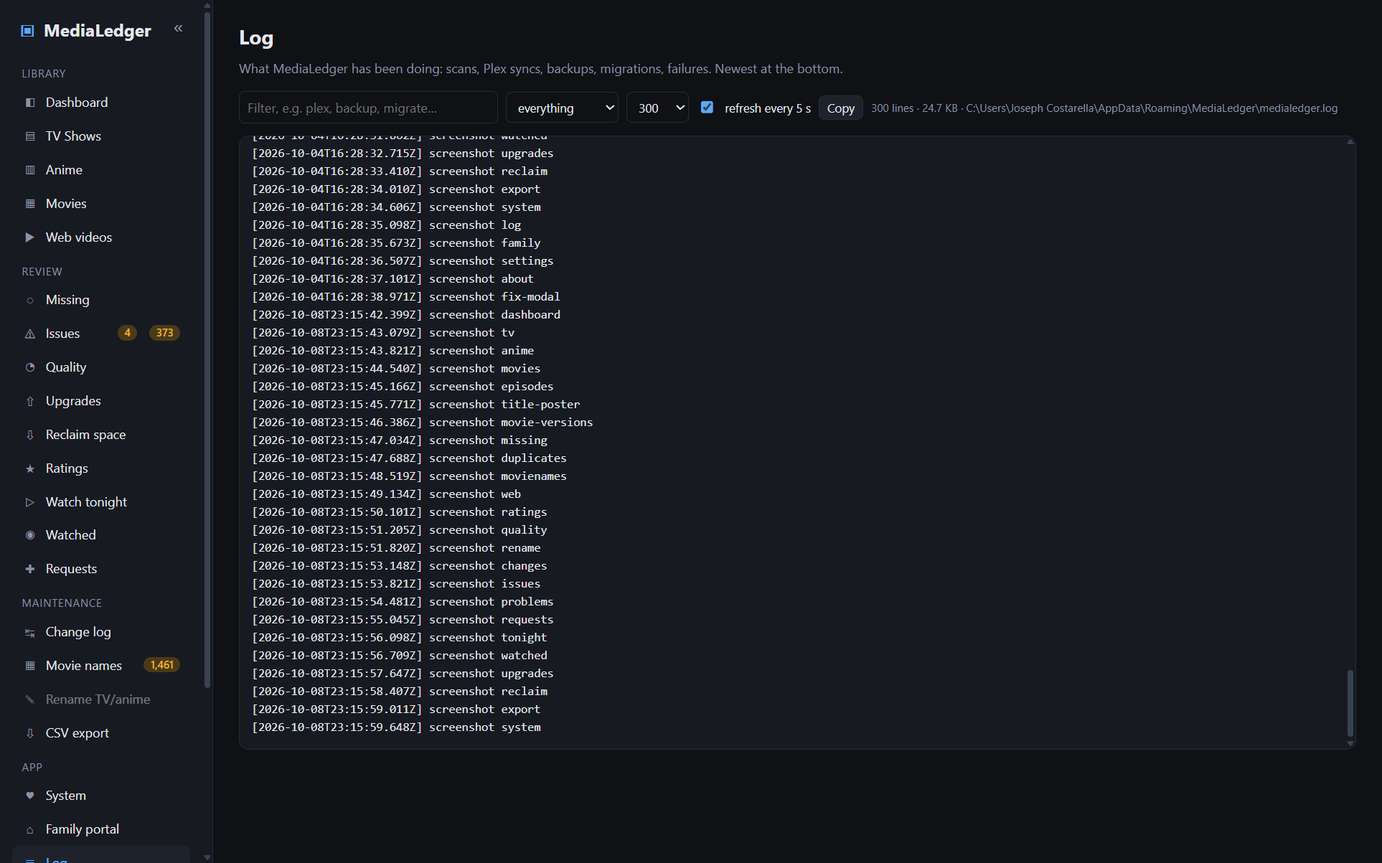
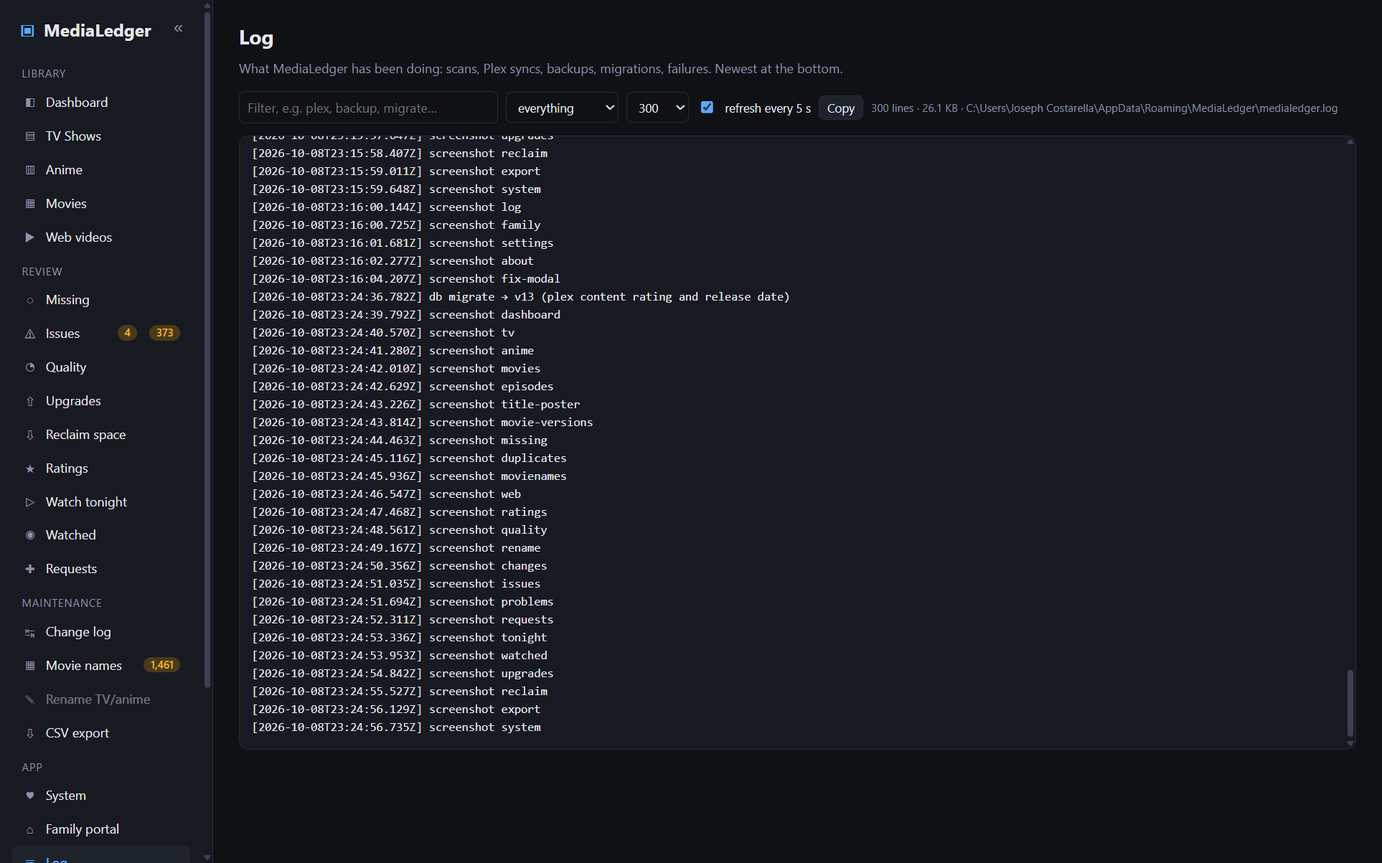
Release 2.6.0: content rating and release date from Plex, a Continue watching card, and a full sort menu on the family portal

Changed region(s): [[0.2492, 0.3998, 0.3115, 0.8304], [0.2181, 0.1538, 0.5607, 0.3691], [0.3427, 0.1538, 0.405, 0.2461]]

diff --git a/src/renderer/views-library.js b/src/renderer/views-library.js
@@ -68,6 +68,7 @@ const DASH_CARDS = [
   { type: 'watched_donut', group: 'Watching', label: 'Watched (chart)', help: 'Watched against not yet, from Plex.', sizes: SZ_CHART, def: 'm', guest: true, render: c => window.Cards.donut([{ k: 'Watched', n: c.d.watched.watched, color: 'var(--accent2)' }, { k: 'Not yet', n: Math.max(0, c.d.watched.linked - c.d.watched.watched), color: 'var(--line)' }], 'Watched (Plex)', { center: c.d.watched.linked ? pct(c.d.watched.watched, c.d.watched.linked) + '%' : '—', sub: c.d.watched.linked ? 'of linked files' : 'sync Plex' }) },
   { type: 'plays', group: 'Watching', label: 'Plays per day', help: 'Plays by everyone on the Plex server.', sizes: SZ_CHART, def: 'm', period: true, render: async c => { if (!canSee('standard')) return null; const days = window.UI.RANGE_DAYS[c.range] || 90; const w = await c.lazy('watched' + days, () => L.watched({ days: days > 3650 ? 'all' : days })); return window.Cards.trend(w.perDay.map(x => ({ x: x.day, y: x.plays })), 'Plays per day', { note: 'Appears once there are plays on two different days.' }); } },
   { type: 'by_person', group: 'Watching', label: 'Plays by person', help: 'Who watched how much, split by library.', sizes: SZ_CHART, def: 'm', period: true, render: async c => { if (!canSee('standard')) return null; const days = window.UI.RANGE_DAYS[c.range] || 90; const w = await c.lazy('watched' + days, () => L.watched({ days: days > 3650 ? 'all' : days })); return bars(w.byPerson, 'Plays by person', { max: 12, drill: false }); } },
+  { type: 'continue', group: 'Watching', label: 'Continue watching', help: 'Titles Plex says are part-way through, newest first.', sizes: SZ_TABLE, def: 'm', list: true, render: async c => { if (!canSee('standard')) return null; const cw = await c.lazy('continue', () => L.continueWatching(20)); const n = rows(c, 8); return `<div class="card"><h3>Continue watching <a class="right" href="#watched">watched →</a></h3>${cw.length ? `<table>${cw.slice(0, n).map(x => `<tr><td><span class="badge ${x.library_type}">${typeName(x.library_type)}</span></td><td class="wrap">${x.library_type === 'movie' ? `<a href="#movies/${encodeURIComponent(x.group_key)}">${esc(x.movie_title || '')}</a>${x.movie_year ? ` <span class="muted">(${x.movie_year})</span>` : ''}` : `<a href="#${x.library_type}/${encodeURIComponent(x.show_name)}">${esc(x.show_name)}</a> <span class="muted tiny">${sxe(x)}${x.episode_title ? ' ' + esc(x.episode_title) : ''}</span>`}</td><td class="num nowrap"><span class="meter-sm" title="${x.progress}% watched"><span style="width:${x.progress}%"></span></span> <span class="muted tiny">${fmtDur(x.left_s)} left</span></td><td class="num muted tiny">${fmtAgo(x.last_viewed)}</td></tr>`).join('')}</table>` : '<p class="muted">Nothing is part-way through. Plex reports progress after the next sync.</p>'}</div>`; } },
   { type: 'nextup', group: 'Watching', label: 'Next up', help: 'The episode after the furthest one each person watched lately.', sizes: SZ_TABLE, def: 'l', list: true, render: async c => { if (!canSee('standard')) return null; const nu = await c.lazy('nextup', () => L.nextUp({ days: 60 })); const n = rows(c, 8); return `<div class="card"><h3>Next up <a class="right" href="#watched">watched →</a></h3>${nu.length ? `<table>${nu.slice(0, n).map(x => `<tr><td class="nowrap"><b>${esc(x.who)}</b></td><td class="wrap"><a href="#${x.library_type}/${encodeURIComponent(x.show)}">${esc(x.show)}</a></td><td class="num nowrap">${x.next ? `S${String(x.next.season).padStart(2, '0')}E${String(x.next.episode).padStart(2, '0')}` : '<span class="badge ok">caught up</span>'}</td><td class="num muted tiny nowrap">${x.left ? x.left + ' left' : ''}</td></tr>`).join('')}</table>` : '<div class="empty">No plays in the last 60 days</div>'}</div>`; } },
   { type: 'anime_audio', group: 'Watching', label: 'Anime sub / dub', help: 'Anime series by how they are voiced.', sizes: SZ_CHART, def: 'm', guest: true, render: c => window.Cards.donut([{ k: 'Subbed', n: c.d.anime_audio.sub, color: 'var(--anime)', href: '#anime?q=sub' }, { k: 'Dubbed', n: c.d.anime_audio.dub, color: 'var(--movie)', href: '#anime?q=dub' }, { k: 'Dual audio', n: c.d.anime_audio.dual, color: 'var(--accent2)', href: '#anime?q=dual' }, { k: 'Mixed', n: c.d.anime_audio.mixed, color: 'var(--warn)', href: '#anime?q=mixed' }, { k: 'Raw', n: c.d.anime_audio.raw, color: 'var(--muted)' }], 'Anime sub / dub', { sub: 'series' }) },
   { type: 'gaps', group: 'Watching', label: 'Most missing episodes', help: 'The series with the most gaps.', sizes: SZ_TABLE, def: 'l', guest: true, list: true, render: c => { const d = c.d, n = rows(c, 8); return `<div class="card"><h3>Most missing episodes <a class="right" href="#missing">all series →</a></h3>${d.missingEpisodes.top.length ? `<table>${d.missingEpisodes.top.slice(0, n).map(g => `<tr><td><span class="badge ${g.library_type}">${typeName(g.library_type)}</span></td><td class="wrap"><a href="#${g.library_type}/${encodeURIComponent(g.show_name)}">${esc(g.show_name)}</a>${g.matched_title && g.matched_title !== g.show_name ? `<span class="sub">${esc(g.matched_title)}</span>` : ''}</td><td class="num">${g.have} of ${g.expected}</td><td class="num bad">${g.missing_count} missing</td><td class="muted tiny wrap">${esc(missingText(g.missing, 6))}</td></tr>`).join('')}</table>` : `<div class="empty">${d.missingEpisodes.matched ? 'Every matched series is complete' : 'No expected counts yet; they are fetched in the background after a scan'}</div>`}</div>`; } },
@@ -126,7 +127,7 @@ async function seriesView(type) {
   ];
   rows.forEach(r => { r.unwatched = r.plex_linked ? r.episodes - r.watched : null; });
   const sorts = [
-    { key: 'show_name', label: 'Title' }, { key: 'year', label: 'Year', desc: true }, { key: 'online_rating', label: 'Online rating', desc: true },
+    { key: 'show_name', label: 'Title' }, { key: 'year', label: 'Year', desc: true }, { key: 'released', label: 'Release date', desc: true }, { key: 'content_rating', label: 'Content rating' }, { key: 'online_rating', label: 'Online rating', desc: true },
     { key: 'audience_rating', label: 'Audience rating (Plex)', desc: true }, { key: 'critic_rating', label: 'Critic rating (Plex)', desc: true }, { key: 'my_rating', label: 'My rating', desc: true },
     { key: 'unwatched', label: 'Unwatched episodes', desc: true }, { key: 'last_added', label: 'Last episode added', desc: true }, { key: 'added', label: 'Date added', desc: true }, { key: 'last_viewed', label: 'Date viewed', desc: true },
     { key: 'plays', label: 'Plays', desc: true }, { key: 'episodes', label: 'Episodes', desc: true }, { key: 'seasons', label: 'Seasons', desc: true }, { key: 'seconds', label: 'Duration', desc: true }, { key: 'bytes', label: 'Size', desc: true },
@@ -134,7 +135,7 @@ async function seriesView(type) {
     { key: 'random', label: 'Randomly', val: r => r._rnd, pick: () => rows.forEach(r => { r._rnd = Math.random(); }) },
   ];
   const sortState = loadSort(type, { key: 'show_name', asc: true }); let sc = null;
-  const hover = (r) => `<b>${esc(r.show_name)}</b><div class="muted tiny">${[r.year, r.meta_status, AUDIO_LABEL[r.audio_type]].filter(Boolean).map(esc).join(' · ')}</div>
+  const hover = (r) => `<b>${esc(r.show_name)}</b><div class="muted tiny">${[r.year, r.meta_status, r.content_rating, AUDIO_LABEL[r.audio_type]].filter(Boolean).map(esc).join(' · ')}</div>
     ${hcRow('On hand', `${r.seasons} season${r.seasons === 1 ? '' : 's'} · ${r.episodes} episodes`)}${hcRow('Runtime', `${fmtHours(r.seconds)} · ${fmtBytes(r.bytes)}`)}${hcRow('Quality', esc((r.resolutions || '').split(',').filter(Boolean).join(', ')))}
     ${hcRow('Missing', r.expected ? (r.missing_count ? `${r.missing_count} of ${r.expected}` : 'complete') : '')}${hcRow('Watched', r.plex_linked ? `${pct(r.watched, r.episodes)}%${r.last_viewed ? ' · last ' + dayOf(r.last_viewed) : ''}` : '')}
     ${hcRow('Rating', [r.online_rating != null ? `${Number(r.online_rating).toFixed(1)} online` : '', r.my_rating ? `${r.my_rating}★ mine` : ''].filter(Boolean).join(' · '))}${hcRow('Next episode', r.next_airing ? dayOf(r.next_airing) : '')}${hcRow('Added', r.added ? `${dayOf(r.added)}${r.last_added && dayOf(r.last_added) !== dayOf(r.added) ? ' · newest ' + dayOf(r.last_added) : ''}` : '')}
@@ -279,13 +280,13 @@ views.movies = async () => {
   rows.forEach(r => { r.watched = r.watched_count > 0 ? 1 : 0; r.unwatched = r.plex_linked ? (r.watched_count > 0 ? 0 : 1) : null; });
   let onlyMulti = false, filtered = rows;
   const sorts = [
-    { key: 'title', label: 'Title' }, { key: 'year', label: 'Year', desc: true }, { key: 'audience_rating', label: 'Audience rating (Plex)', desc: true }, { key: 'my_rating', label: 'My rating', desc: true },
+    { key: 'title', label: 'Title' }, { key: 'year', label: 'Year', desc: true }, { key: 'released', label: 'Release date', desc: true }, { key: 'content_rating', label: 'Content rating' }, { key: 'audience_rating', label: 'Audience rating (Plex)', desc: true }, { key: 'my_rating', label: 'My rating', desc: true },
     { key: 'seconds', label: 'Duration', desc: true }, { key: 'progress', label: 'Progress', desc: true, val: r => r.offset_ms && r.seconds ? r.offset_ms / 1000 / r.seconds : (r.watched_count > 0 ? 1 : null) }, { key: 'watched_count', label: 'Plays', desc: true },
     { key: 'added', label: 'Date added', desc: true }, { key: 'last_viewed', label: 'Date viewed', desc: true }, { key: 'height', label: 'Resolution', desc: true }, { key: 'bitrate', label: 'Bitrate', desc: true }, { key: 'bytes', label: 'Size', desc: true }, { key: 'files', label: 'Versions', desc: true },
     { key: 'random', label: 'Randomly', val: r => r._rnd, pick: () => rows.forEach(r => { r._rnd = Math.random(); }) },
   ];
   const sortState = loadSort('movie', { key: 'title', asc: true }); let sc = null;
-  const hover = (r) => `<b>${esc(r.title)}${r.year ? ` <span class="muted">(${r.year})</span>` : ''}</b><div class="muted tiny">${[fmtDur(r.seconds), AUDIO_LABEL[r.audio_type]].filter(Boolean).map(esc).join(' · ')}</div>
+  const hover = (r) => `<b>${esc(r.title)}${r.year ? ` <span class="muted">(${r.year})</span>` : ''}</b><div class="muted tiny">${[fmtDur(r.seconds), r.content_rating, r.released ? 'released ' + dayOf(r.released) : '', AUDIO_LABEL[r.audio_type]].filter(Boolean).map(esc).join(' · ')}</div>
     ${hcRow('Versions', `${r.files} file${r.files === 1 ? '' : 's'} · ${fmtBytes(r.bytes)}`)}${hcRow('Quality', esc([(r.resolutions || '').split(',').filter(Boolean).join(', '), r.hdr && r.hdr !== 'SDR' ? r.hdr : '', r.bitrate ? (r.bitrate / 1000).toFixed(1) + ' Mbps' : ''].filter(Boolean).join(' · ')))}${hcRow('Editions', esc(r.editions || ''))}
     ${hcRow('Watched', r.plex_linked ? (r.watched_count > 0 ? `${r.watched_count} play${r.watched_count === 1 ? '' : 's'}${r.last_viewed ? ' · last ' + dayOf(r.last_viewed) : ''}` : 'not yet') : '')}${hcRow('Rating', [r.audience_rating != null ? `${Number(r.audience_rating).toFixed(1)} audience` : '', r.my_rating ? `${r.my_rating}★ mine` : ''].filter(Boolean).join(' · '))}
     ${hcRow('Audio', esc(uniqList(r.audio_langs)))}${hcRow('Subtitles', esc(uniqList(r.sub_langs)))}${hcRow('Added', dayOf(r.added))}

diff --git a/src/portal/portal.js b/src/portal/portal.js
@@ -39,15 +39,18 @@
   async function library() {
     let type = store.get('lib', 'movie');
     view.innerHTML = `<div class="seg" id="libSeg">${['movie', 'tv', 'anime'].map(t => `<button data-t="${t}" class="${t === type ? 'on' : ''}">${t === 'movie' ? 'Movies' : TYPE[t]}</button>`).join('')}</div>
-      <div class="bar"><input type="search" id="q" placeholder="Search…" autocomplete="off"><select id="fGenre"><option value="">any genre</option></select><select id="fBest"><option value="">any quality</option><option>4K</option><option>1080p</option><option>720p</option></select><select id="fAudio" hidden><option value="">sub or dub</option><option value="sub">Sub</option><option value="dub">Dub</option><option value="dual">Sub + Dub</option></select><select id="sort"><option value="title">A to Z</option><option value="rating">best rated</option><option value="year">newest first</option></select></div>
+      <div class="bar"><input type="search" id="q" placeholder="Search…" autocomplete="off"><select id="fGenre"><option value="">any genre</option></select><select id="fBest"><option value="">any quality</option><option>4K</option><option>1080p</option><option>720p</option></select><select id="fAudio" hidden><option value="">sub or dub</option><option value="sub">Sub</option><option value="dub">Dub</option><option value="dual">Sub + Dub</option></select><select id="sort"><option value="title">Title</option><option value="rating">Rating</option><option value="year">Year</option><option value="released">Release date</option><option value="rated">Content rating</option><option value="added">Date added</option><option value="last_added">Last episode added</option><option value="unwatched">Unwatched</option><option value="episodes">Episodes</option><option value="minutes">Length</option></select><button id="sortDir" class="btn" title="Ascending or descending">↓</button></div>
       <div class="muted tiny" id="count"></div><div class="list" id="list"><div class="empty">Loading…</div></div><div class="more" id="more"></div>`;
     let rows = [], shown = 60;
     const draw = () => {
       const q = $('#q').value.trim().toLowerCase(), g = $('#fGenre').value, b = $('#fBest').value, a = $('#fAudio').value, s = $('#sort').value;
       let list = rows.filter(r => (!q || r.title.toLowerCase().includes(q) || (r.tags || []).some(t => t.toLowerCase().includes(q))) && (!g || (r.genres || []).includes(g)) && (!b || r.best === b) && (!a || r.audio_type === a));
-      list = list.slice().sort(s === 'rating' ? (x, y) => (y.online_rating || 0) - (x.online_rating || 0) : s === 'year' ? (x, y) => (y.year || 0) - (x.year || 0) : (x, y) => x.title.localeCompare(y.title));
+      // Every sort has a natural direction (titles up, everything else newest or highest first); the button flips it.
+      const key = { rating: 'online_rating', rated: 'rated', title: 'title' }[s] || s, natural = s === 'title' || s === 'rated' ? 1 : -1, dir = (store.get('sortDir', 1)) * natural;
+      const val = (r) => key === 'online_rating' && r.online_rating == null ? r.audience_rating : r[key];
+      list = list.slice().sort((x, y) => { const a = val(x), b = val(y); if (a == null && b == null) return 0; if (a == null) return 1; if (b == null) return -1; return (typeof a === 'number' ? a - b : String(a).localeCompare(String(b), undefined, { numeric: true })) * dir; });
       $('#count').textContent = `${list.length.toLocaleString()} of ${rows.length.toLocaleString()}`;
-      $('#list').innerHTML = list.slice(0, shown).map(r => `<a class="row has-poster" href="${hrefOf(r)}">${poster(r)}<div class="t">${esc(r.title)}${r.year ? ` <span class="muted">(${r.year})</span>` : ''}</div><div class="s">${r.best ? `<span class="badge">${esc(r.best)}${r.hdr ? ' ' + esc(r.hdr) : ''}</span>` : ''}${audioBadge(r.audio_type)}${r.type === 'movie' ? `<span>${mins(r.minutes)}</span>${r.versions > 1 ? `<span>${r.versions} versions</span>` : ''}` : `<span>${r.episodes} episodes</span>${r.missing ? `<span class="badge warn">${r.missing} missing</span>` : r.expected ? '<span class="badge ok">complete</span>' : ''}`}${rating(r.online_rating)}${stars(r.my_rating)}</div>${tagRow(r)}</a>`).join('') || '<div class="empty">Nothing matches.</div>';
+      $('#list').innerHTML = list.slice(0, shown).map(r => `<a class="row has-poster" href="${hrefOf(r)}">${poster(r)}<div class="t">${esc(r.title)}${r.year ? ` <span class="muted">(${r.year})</span>` : ''}</div><div class="s">${r.best ? `<span class="badge">${esc(r.best)}${r.hdr ? ' ' + esc(r.hdr) : ''}</span>` : ''}${audioBadge(r.audio_type)}${r.type === 'movie' ? `<span>${mins(r.minutes)}</span>${r.versions > 1 ? `<span>${r.versions} versions</span>` : ''}` : `<span>${r.episodes} episodes</span>${r.missing ? `<span class="badge warn">${r.missing} missing</span>` : r.expected ? '<span class="badge ok">complete</span>' : ''}`}${r.rated ? `<span class="badge" title="content rating">${esc(r.rated)}</span>` : ''}${rating(r.online_rating != null ? r.online_rating : r.audience_rating)}${stars(r.my_rating)}</div>${tagRow(r)}</a>`).join('') || '<div class="empty">Nothing matches.</div>';
       $('#more').innerHTML = list.length > shown ? `<button class="btn" id="moreBtn">Show more (${(list.length - shown).toLocaleString()} left)</button>` : '';
       if ($('#moreBtn')) $('#moreBtn').onclick = () => { shown += 120; draw(); };
     };
@@ -56,12 +59,15 @@
       try { await loadPosters(); rows = await cached('library?type=' + type); } catch (e) { if (e.message !== 'invite') $('#list').innerHTML = `<div class="empty">${esc(e.message)}</div>`; return; }
       const genres = [...new Set(rows.flatMap(r => r.genres || []))].sort();
       $('#fGenre').innerHTML = '<option value="">any genre</option>' + genres.map(g => `<option>${esc(g)}</option>`).join('');
-      $('#sort').querySelector('[value=year]').hidden = type !== 'movie';
+      for (const [v, when] of [['year', 'movie'], ['released', ''], ['last_added', 'series'], ['unwatched', 'series'], ['episodes', 'series'], ['minutes', 'movie']]) $('#sort').querySelector(`[value=${v}]`).hidden = when === 'movie' ? type !== 'movie' : when === 'series' ? type === 'movie' : false;
+      $('#sort').value = store.get('sort.' + type, 'title'); paintDir();
       shown = 60; draw();
     };
     $('#libSeg').onclick = (e) => { const b = e.target.closest('button'); if (!b) return; type = b.dataset.t; store.set('lib', type); [...$('#libSeg').children].forEach(x => x.classList.toggle('on', x === b)); $('#q').value = ''; load(); };
     let deb = null; $('#q').oninput = () => { clearTimeout(deb); deb = setTimeout(() => { shown = 60; draw(); }, 150); };
-    ['#fGenre', '#fBest', '#fAudio', '#sort'].forEach(id => { $(id).onchange = () => { shown = 60; draw(); }; });
+    const paintDir = () => { $('#sortDir').textContent = store.get('sortDir', 1) === 1 ? '↓' : '↑'; };
+    ['#fGenre', '#fBest', '#fAudio', '#sort'].forEach(id => { $(id).onchange = () => { shown = 60; if (id === '#sort') store.set('sort.' + type, $('#sort').value); draw(); }; });
+    $('#sortDir').onclick = () => { store.set('sortDir', store.get('sortDir', 1) === 1 ? -1 : 1); paintDir(); draw(); };
     await load();
   }
 

diff --git a/src/main/service.js b/src/main/service.js
@@ -547,19 +547,19 @@ function createService({ userData, log, send, host }) {
       MIN(${FILE_ADDED}) added, MAX(${FILE_ADDED}) last_added, MAX(plex_last_viewed) last_viewed, MAX(height) height, CAST(AVG(bitrate_kbps) AS INTEGER) bitrate, SUM(COALESCE(plex_view_count,0)) plays,
       ${AUDIO_COUNTS}
     FROM files WHERE library_type=? AND missing=0 AND ignored=0${AF()} GROUP BY show_name ORDER BY show_name COLLATE NOCASE`, type);
-    const plexShows = new Map(db.all('SELECT rating_key, user_rating, genres, year, audience_rating, rating FROM plex_shows').map(s => [s.rating_key, s]));
+    const plexShows = new Map(db.all('SELECT rating_key, user_rating, genres, year, audience_rating, rating, content_rating, released FROM plex_shows').map(s => [s.rating_key, s]));
     const tagMap = db.tagsFor(type);
     const miss = new Map(missingSummary(type).map(m => [m.show_name, m]));
     const metas = db.allSeriesMeta(type);
     const ur = new Map(db.userRatings(type).map(u => [u.title_key, u]));
-    return rows.map(r => { const m = miss.get(r.show_name); const sm = metas.get(r.show_name); const u = ur.get(r.show_name); const ps = r.plex_show_key ? plexShows.get(r.plex_show_key) : null; return { ...r, expected: m ? m.expected : 0, missing_count: m ? m.missing_count : 0, meta_source: m ? m.source : null, meta_status: m ? m.status : null, online_rating: sm ? sm.rating : null, my_rating: u ? u.stars : null, plex_user: ps ? ps.user_rating : null, year: ps ? ps.year : null, audience_rating: ps ? ps.audience_rating : null, critic_rating: ps ? ps.rating : null, next_airing: sm ? sm.next_airing || null : null, genres: onlineTags(sm).length ? onlineTags(sm) : onlineTags({ genres: ps && ps.genres }), audio_type: titleAudioType({ files: r.probed_audio, jpn: r.jpn_files, eng: r.eng_files, dual: r.dual_files }, { anime: type === 'anime' }), tags: tagMap.get(r.show_name) || [] }; });
+    return rows.map(r => { const m = miss.get(r.show_name); const sm = metas.get(r.show_name); const u = ur.get(r.show_name); const ps = r.plex_show_key ? plexShows.get(r.plex_show_key) : null; return { ...r, expected: m ? m.expected : 0, missing_count: m ? m.missing_count : 0, meta_source: m ? m.source : null, meta_status: m ? m.status : null, online_rating: sm ? sm.rating : null, my_rating: u ? u.stars : null, plex_user: ps ? ps.user_rating : null, year: ps ? ps.year : null, audience_rating: ps ? ps.audience_rating : null, critic_rating: ps ? ps.rating : null, content_rating: ps ? ps.content_rating || null : null, released: ps ? ps.released || null : null, next_airing: sm ? sm.next_airing || null : null, genres: onlineTags(sm).length ? onlineTags(sm) : onlineTags({ genres: ps && ps.genres }), audio_type: titleAudioType({ files: r.probed_audio, jpn: r.jpn_files, eng: r.eng_files, dual: r.dual_files }, { anime: type === 'anime' }), tags: tagMap.get(r.show_name) || [] }; });
   });
   h('data:episodes', (type, show) => ({ tags: db.tagsOf(type, show), genres: onlineTags(db.getSeriesMeta(type, show)), files: db.all(`SELECT * FROM files WHERE library_type=? AND show_name=? AND ignored=0${AF()} ORDER BY missing, season, episode, file_name`, type, show), missing: missingSummary(type).find(m => m.show_name === show) || null }));
   h('data:movies', () => { const movieTags = db.tagsFor('movie'); const mine = new Map(db.userRatings('movie').map(u => [u.title_key, u.stars])); return db.all(`SELECT group_key, MIN(movie_title) title, MIN(movie_year) year, COUNT(*) files, SUM(size) bytes, MAX(duration_s) seconds,
       GROUP_CONCAT(DISTINCT resolution) resolutions, GROUP_CONCAT(DISTINCT video_codec) codecs, GROUP_CONCAT(DISTINCT audio_langs) audio_langs, GROUP_CONCAT(DISTINCT sub_langs) sub_langs,
       MAX(has_captions) has_captions, SUM(CASE WHEN probe_ok=1 THEN 1 ELSE 0 END) probed, GROUP_CONCAT(edition_tag, ' | ') editions, MAX(plex_genres) plex_genres,
       MAX(plex_view_count) watched_count, MAX(plex_user_rating) plex_user, SUM(CASE WHEN plex_rating_key IS NOT NULL THEN 1 ELSE 0 END) plex_linked, MAX(hdr) hdr,
-      MIN(${FILE_ADDED}) added, MAX(plex_last_viewed) last_viewed, MAX(height) height, MAX(bitrate_kbps) bitrate, MAX(plex_audience_rating) audience_rating, MAX(plex_view_offset_ms) offset_ms,
+      MIN(${FILE_ADDED}) added, MAX(plex_last_viewed) last_viewed, MAX(height) height, MAX(bitrate_kbps) bitrate, MAX(plex_audience_rating) audience_rating, MAX(plex_view_offset_ms) offset_ms, MAX(plex_content_rating) content_rating, MIN(plex_released) released,
       ${AUDIO_COUNTS}
     FROM files WHERE library_type='movie' AND missing=0 AND ignored=0${AF()} GROUP BY group_key ORDER BY title COLLATE NOCASE, year`).map(r => ({ ...r, my_rating: mine.get(r.group_key) || null, genres: onlineTags({ genres: r.plex_genres }), audio_type: titleAudioType({ files: r.probed_audio, jpn: r.jpn_files, eng: r.eng_files, dual: r.dual_files }), tags: movieTags.get(r.group_key) || [] })); });
   h('data:movieFiles', (groupKey) => db.all(`SELECT * FROM files WHERE library_type='movie' AND group_key=?${AF()} ORDER BY missing, file_name`, groupKey));
@@ -711,6 +711,11 @@ function createService({ userData, log, send, host }) {
   h('data:snapshots', (days) => db.snapshots(Number(days) || 365));
   h('data:watched', (opts) => watched.report(db, { ...(opts || {}), adultFilter: AF() }));
   h('data:reclaim', (opts) => watched.reclaim(db, { ...(opts || {}), adultFilter: AF() }));
+  // Continue watching: what Plex says is part-way through. Plex clears the offset once something is finished.
+  h('data:continue', (limit) => db.all(`SELECT library_type, show_name, season, episode, episode_title, movie_title, movie_year, group_key, duration_s, plex_view_offset_ms offset_ms, plex_last_viewed last_viewed
+    FROM files WHERE missing=0 AND ignored=0 AND plex_view_offset_ms > 60000 AND duration_s > 0${AF()} ORDER BY plex_last_viewed DESC LIMIT ?`, Math.min(50, Math.max(1, Number(limit) || 12)))
+    .filter((r, i, all) => all.findIndex(x => x.library_type === r.library_type && (r.library_type === 'movie' ? x.group_key === r.group_key : x.show_name === r.show_name && x.season === r.season && x.episode === r.episode)) === i) // one row per title, the newest
+    .map(r => ({ ...r, progress: Math.min(99, Math.round(r.offset_ms / 1000 / r.duration_s * 100)), left_s: Math.max(0, Math.round(r.duration_s - r.offset_ms / 1000)) })));
   h('data:nextUp', (opts) => watched.nextUp(db, { ...(opts || {}), adultFilter: AF() }));
   h('data:snapshotNow', () => takeSnapshot());
   const snapshotTick = () => { const today = new Date().toISOString().slice(0, 10); const now = new Date(); const [sh, sm] = String((settings.get().snapshot || {}).time || '03:05').split(':').map(Number); if (now.getHours() * 60 + now.getMinutes() < sh * 60 + sm) return; if (scanner.running) return; if (db.get('SELECT 1 FROM snapshots WHERE day=?', today)) return; try { takeSnapshot(); } catch (e) { log('snapshot failed: ' + e.message); } };

diff --git a/src/main/plex.js b/src/main/plex.js
@@ -106,7 +106,7 @@ async function fetchSection(cfg, section, onProgress = () => {}) {
     out.videos = (mc.Metadata || []).map(v => flattenVideo(v, section));
   } else if (section.type === 'show') {
     const shows = await api(cfg, `/library/sections/${section.key}/all?includeGuids=1`, 120000);
-    out.shows = (shows.Metadata || []).map(s => ({ ratingKey: String(s.ratingKey), title: s.title, year: pick(s, 'year'), guids: ids(s.Guid), userRating: pick(s, 'userRating'), audienceRating: pick(s, 'audienceRating'), rating: pick(s, 'rating'), leafCount: pick(s, 'leafCount'), viewedLeafCount: pick(s, 'viewedLeafCount'), childCount: pick(s, 'childCount'), contentRating: s.contentRating || null, section: section.title, genres: Array.isArray(s.Genre) ? s.Genre.map(g => g.tag).filter(Boolean) : [] }));
+    out.shows = (shows.Metadata || []).map(s => ({ ratingKey: String(s.ratingKey), title: s.title, year: pick(s, 'year'), guids: ids(s.Guid), userRating: pick(s, 'userRating'), audienceRating: pick(s, 'audienceRating'), rating: pick(s, 'rating'), leafCount: pick(s, 'leafCount'), viewedLeafCount: pick(s, 'viewedLeafCount'), childCount: pick(s, 'childCount'), contentRating: s.contentRating || null, originallyAvailableAt: s.originallyAvailableAt || null, section: section.title, genres: Array.isArray(s.Genre) ? s.Genre.map(g => g.tag).filter(Boolean) : [] }));
     // Episodes in pages of 500 so a 12k-episode section doesn't need one giant response.
     let start = 0; const size = 500;
     for (;;) {
@@ -157,13 +157,13 @@ async function syncLibrary(db, cfg, opts = {}) {
 
     onProgress({ phase: 'store', section: sec.title, message: `Storing ${matched.length.toLocaleString()} matches for ${sec.title}…` });
     db.transaction(() => {
-      const upd = db.prep(`UPDATE files SET plex_rating_key=?, plex_title=?, plex_year=?, plex_show_key=?, plex_guids=?, plex_user_rating=?, plex_audience_rating=?, plex_view_count=?, plex_last_viewed=?, plex_view_offset_ms=?, plex_section=?, plex_synced_at=?, plex_genres=? WHERE id=?`);
+      const upd = db.prep(`UPDATE files SET plex_rating_key=?, plex_title=?, plex_year=?, plex_show_key=?, plex_guids=?, plex_user_rating=?, plex_audience_rating=?, plex_view_count=?, plex_last_viewed=?, plex_view_offset_ms=?, plex_section=?, plex_synced_at=?, plex_genres=?, plex_content_rating=?, plex_released=? WHERE id=?`);
       for (const { item: it, file: f } of matched) {
-        upd.run(it.ratingKey, it.showTitle || it.title, it.year, it.showKey, JSON.stringify(it.guids), it.userRating, it.audienceRating, it.viewCount, it.lastViewedAt ? new Date(it.lastViewedAt * 1000).toISOString() : null, it.viewOffset, it.section, now, it.type === 'movie' && it.genres && it.genres.length ? JSON.stringify(it.genres) : null, f.id);
+        upd.run(it.ratingKey, it.showTitle || it.title, it.year, it.showKey, JSON.stringify(it.guids), it.userRating, it.audienceRating, it.viewCount, it.lastViewedAt ? new Date(it.lastViewedAt * 1000).toISOString() : null, it.viewOffset, it.section, now, it.type === 'movie' && it.genres && it.genres.length ? JSON.stringify(it.genres) : null, it.type === 'movie' ? it.contentRating : null, it.type === 'movie' ? it.originallyAvailableAt : null, f.id);
       }
-      const ups = db.prep(`INSERT INTO plex_shows (rating_key, section, title, year, guids, user_rating, audience_rating, rating, leaf_count, viewed_leaf_count, content_rating, synced_at, genres) VALUES (?,?,?,?,?,?,?,?,?,?,?,?,?)
-        ON CONFLICT(rating_key) DO UPDATE SET section=excluded.section, title=excluded.title, year=excluded.year, guids=excluded.guids, user_rating=excluded.user_rating, audience_rating=excluded.audience_rating, rating=excluded.rating, leaf_count=excluded.leaf_count, viewed_leaf_count=excluded.viewed_leaf_count, content_rating=excluded.content_rating, synced_at=excluded.synced_at, genres=excluded.genres`);
-      for (const s of shows) ups.run(s.ratingKey, s.section, s.title, s.year, JSON.stringify(s.guids), s.userRating, s.audienceRating, s.rating, s.leafCount, s.viewedLeafCount, s.contentRating, now, s.genres && s.genres.length ? JSON.stringify(s.genres) : null);
+      const ups = db.prep(`INSERT INTO plex_shows (rating_key, section, title, year, guids, user_rating, audience_rating, rating, leaf_count, viewed_leaf_count, content_rating, synced_at, genres, released) VALUES (?,?,?,?,?,?,?,?,?,?,?,?,?,?)
+        ON CONFLICT(rating_key) DO UPDATE SET section=excluded.section, title=excluded.title, year=excluded.year, guids=excluded.guids, user_rating=excluded.user_rating, audience_rating=excluded.audience_rating, rating=excluded.rating, leaf_count=excluded.leaf_count, viewed_leaf_count=excluded.viewed_leaf_count, content_rating=excluded.content_rating, synced_at=excluded.synced_at, genres=excluded.genres, released=excluded.released`);
+      for (const s of shows) ups.run(s.ratingKey, s.section, s.title, s.year, JSON.stringify(s.guids), s.userRating, s.audienceRating, s.rating, s.leafCount, s.viewedLeafCount, s.contentRating, now, s.genres && s.genres.length ? JSON.stringify(s.genres) : null, s.originallyAvailableAt || null);
       stats.shows += shows.length;
     });
     log(`plex: ${sec.title}: ${videos.length} items, ${matched.length} matched, ${unmatched.length} unmatched`);

diff --git a/src/server/server.js b/src/server/server.js
@@ -71,7 +71,7 @@ const portal = createPortal({ svc, dataDir, log, audit: (...a) => sec.audit(...a
 // What a guest (no account) may call: read-only library statistics, plus filing a media request.
 const GUEST = new Set(['posters:index', 'app:info', 'security:me', 'data:dashboard', 'data:series', 'data:episodes', 'data:movies', 'data:movieFiles', 'data:search', 'web:channels', 'web:videos', 'ratings:list', 'meta:get', 'scan:status', 'scan:list', 'update:status', 'adult:status', 'requests:list', 'requests:add', 'roots:last', 'tags:list', 'tags:all', 'tags:get', 'data:tonight', 'data:storage', 'data:airing', 'prefs:get', 'data:snapshots']);
 // A standard user: everything a guest may, plus the review pages, own ratings, the adult switch for their own session.
-const STANDARD = new Set([...GUEST, 'data:watched', 'data:reclaim', 'data:nextUp', 'data:problems', 'data:duplicates', 'data:missing', 'data:quality', 'data:changes', 'data:changeStats', 'movie:plan', 'movie:batches', 'movie:batchItems', 'rename:proposals', 'rename:history', 'export:list', 'override:list', 'override:suggest', 'meta:status', 'plex:status', 'watch:status', 'schedule:nextInApp', 'db:stats', 'settings:get', 'adult:toggle', 'ratings:setUser', 'security:changePassword', 'tags:add', 'tags:remove', 'data:upgrades', 'rename:dry', 'prefs:set']);
+const STANDARD = new Set([...GUEST, 'data:watched', 'data:reclaim', 'data:nextUp', 'data:continue', 'data:problems', 'data:duplicates', 'data:missing', 'data:quality', 'data:changes', 'data:changeStats', 'movie:plan', 'movie:batches', 'movie:batchItems', 'rename:proposals', 'rename:history', 'export:list', 'override:list', 'override:suggest', 'meta:status', 'plex:status', 'watch:status', 'schedule:nextInApp', 'db:stats', 'settings:get', 'adult:toggle', 'ratings:setUser', 'security:changePassword', 'tags:add', 'tags:remove', 'data:upgrades', 'rename:dry', 'prefs:set']);
 // Admins: every channel. Actions that write to the share or throw data away also need a fresh password (re-auth).
 const SENSITIVE = new Set(['shares:add', 'shares:remove', 'portal:set', 'portal:invite', 'portal:renew', 'db:restoreStage', 'security:tlsEnable', 'security:tlsDisable', 'status:rotate', 'plex:webhookSet', 'movie:run', 'movie:undo', 'rename:apply', 'data:purgeMissing', 'security:changePassword', 'security:totpSetup', 'security:totpEnable', 'security:totpDisable', 'security:setOptions', 'security:revokeOthers', 'security:addUser', 'security:setRole', 'security:resetPassword', 'security:deleteUser']);
 const isSensitive = (ch, args) => ch === 'movie:run' ? !!(args[1] && args[1].live) : SENSITIVE.has(ch);

diff --git a/src/server/portal.js b/src/server/portal.js
@@ -51,12 +51,12 @@ const bestRes = (v) => { const have = csv(v); return RES_ORDER.find(r => have.in
 const projectSeries = (type, showRatings) => (s) => ({
   type, key: String(s.show_name), title: String(s.show_name), episodes: num(s.episodes), seasons: num(s.seasons),
   best: bestRes(s.resolutions), audio_type: s.audio_type || null, genres: arr(s.genres), tags: arr(s.tags),
-  expected: num(s.expected) || null, missing: s.expected ? num(s.missing_count) : null, status: s.meta_status || null,
+  expected: num(s.expected) || null, missing: s.expected ? num(s.missing_count) : null, status: s.meta_status || null, year: num(s.year), released: s.released ? String(s.released).slice(0, 10) : null, rated: s.content_rating ? String(s.content_rating) : null, added: s.added ? String(s.added).slice(0, 10) : null, last_added: s.last_added ? String(s.last_added).slice(0, 10) : null, unwatched: s.plex_linked ? num(s.episodes - s.watched) : null,
   online_rating: num(s.online_rating), my_rating: showRatings ? num(s.my_rating) : null, minutes: s.episodes && s.seconds ? Math.round(s.seconds / s.episodes / 60) : null,
 });
 const projectMovie = (showRatings) => (m) => ({
   type: 'movie', key: String(m.group_key), title: String(m.title || ''), year: num(m.year), versions: num(m.files),
-  best: bestRes(m.resolutions), hdr: m.hdr && m.hdr !== 'SDR' ? String(m.hdr) : null, editions: csv(m.editions),
+  best: bestRes(m.resolutions), hdr: m.hdr && m.hdr !== 'SDR' ? String(m.hdr) : null, editions: csv(m.editions), released: m.released ? String(m.released).slice(0, 10) : null, rated: m.content_rating ? String(m.content_rating) : null, added: m.added ? String(m.added).slice(0, 10) : null, audience_rating: num(m.audience_rating),
   genres: arr(m.genres && m.genres.length ? m.genres : m.plex_genres), tags: arr(m.tags), minutes: m.seconds && m.files ? Math.round(m.seconds / m.files / 60) : null,
   online_rating: num(m.online_rating), my_rating: showRatings ? num(m.my_rating) : null,
 });

diff --git a/src/renderer/bridge-shape.js b/src/renderer/bridge-shape.js
@@ -42,7 +42,7 @@
   adult: { status: 'adult:status', toggle: 'adult:toggle', dashboard: 'adult:dashboard' },
   ratings: { list: 'ratings:list', setUser: 'ratings:setUser' },
   tags: { list: 'tags:list', all: 'tags:all', get: 'tags:get', add: 'tags:add', remove: 'tags:remove' },
-  tonight: 'data:tonight', storage: 'data:storage', backupTo: 'db:backupTo', airing: 'data:airing', upgrades: 'data:upgrades', notifyTest: 'notify:test', statusJson: 'data:status', watched: 'data:watched', reclaim: 'data:reclaim', nextUp: 'data:nextUp', jobs: { list: 'jobs:list', run: 'jobs:run', overdue: 'jobs:overdue' }, collect: { get: 'collect:get', set: 'collect:set' }, shares: { status: 'shares:status', probe: 'shares:probe', add: 'shares:add', remove: 'shares:remove' },
+  tonight: 'data:tonight', storage: 'data:storage', backupTo: 'db:backupTo', airing: 'data:airing', upgrades: 'data:upgrades', notifyTest: 'notify:test', statusJson: 'data:status', watched: 'data:watched', reclaim: 'data:reclaim', nextUp: 'data:nextUp', continueWatching: 'data:continue', jobs: { list: 'jobs:list', run: 'jobs:run', overdue: 'jobs:overdue' }, collect: { get: 'collect:get', set: 'collect:set' }, shares: { status: 'shares:status', probe: 'shares:probe', add: 'shares:add', remove: 'shares:remove' },
   portal: { status: 'portal:status', check: 'portal:check', set: 'portal:set', invite: 'portal:invite', renew: 'portal:renew', revoke: 'portal:revoke', remove: 'portal:remove' }, posters: { status: 'posters:status', index: 'posters:index', get: 'posters:get', run: 'posters:run', clear: 'posters:clear', onProgress: '!posters:progress' }, logTail: 'log:tail', restoreList: 'db:restoreList', restoreStage: 'db:restoreStage',
   status: { info: 'status:info', rotate: 'status:rotate' },
   prefs: { get: 'prefs:get', set: 'prefs:set' }, snapshots: 'data:snapshots', snapshotNow: 'data:snapshotNow',

diff --git a/test/portal.test.js b/test/portal.test.js
@@ -97,7 +97,7 @@ const call = (method, p, { cookie, body, headers } = {}) => new Promise((resolve
   // what comes back
   const me = await call('GET', '/p/me', { cookie }); assert.strictEqual(me.json.result.name, 'Mom');
   const movies = await call('GET', '/p/library?type=movie', { cookie });
-  assert.deepStrictEqual(Object.keys(movies.json.result[0]).sort(), ['best', 'editions', 'genres', 'hdr', 'key', 'minutes', 'my_rating', 'online_rating', 'tags', 'title', 'type', 'versions', 'year']);
+  assert.deepStrictEqual(Object.keys(movies.json.result[0]).sort(), ['added', 'audience_rating', 'best', 'editions', 'genres', 'hdr', 'key', 'minutes', 'my_rating', 'online_rating', 'rated', 'released', 'tags', 'title', 'type', 'versions', 'year']);
   assert.strictEqual(movies.json.result[0].best, '4K');
   const series = await call('GET', '/p/library?type=anime', { cookie }); assert.strictEqual(series.json.result[0].missing, 2);
   const ep = await call('GET', '/p/title?type=tv&key=Andor', { cookie });

diff --git a/src/renderer/styles.css b/src/renderer/styles.css
@@ -449,3 +449,7 @@ td.ptitle .pname { display: inline-block; vertical-align: middle; white-space: n
 /* The buttons at the end of a table row: the column is as wide as its buttons and sits against the right edge,
    instead of taking a share of the table's spare width and leaving a gap beside them. */
 td.rowacts { width: 1%; text-align: right; white-space: nowrap; }
+
+/* A small progress bar inside a table cell (Continue watching) */
+.meter-sm { display: inline-block; width: 70px; height: 6px; border-radius: 3px; background: var(--panel3); vertical-align: middle; overflow: hidden; }
+.meter-sm > span { display: block; height: 100%; background: var(--accent); }

diff --git a/src/main/db.js b/src/main/db.js
@@ -359,6 +359,14 @@ const MIGRATIONS = [
       );
     `,
   },
+  {
+    version: 13, name: 'plex content rating and release date',
+    sql: `
+      ALTER TABLE plex_shows ADD COLUMN released TEXT;          -- YYYY-MM-DD the series first aired, from Plex
+      ALTER TABLE files ADD COLUMN plex_content_rating TEXT;    -- movies: PG-13, R, TV-MA …
+      ALTER TABLE files ADD COLUMN plex_released TEXT;          -- movies: YYYY-MM-DD release date
+    `,
+  },
 ];
 
 class Db {

diff --git a/CHANGELOG.md b/CHANGELOG.md
@@ -8,6 +8,21 @@ adheres to [Semantic Versioning](https://semver.org/spec/v2.0.0.html).
 
 ### Added
 
+## [2.6.0] - 2026-10-08
+
+### Added
+
+- **Content rating and release date** from Plex (schema v13): two more
+  entries in the Sort by menu on the TV, Anime and Movies pages, shown on
+  the poster wall's details card. Filled in by the next Plex sync.
+- **Continue watching** card for the dashboard (Watching group): titles Plex
+  says are part-way through, with how much is left and when they were last
+  played. Add it with Edit dashboard.
+- **Family portal sort menu**: title, rating, year, release date, content
+  rating, date added, last episode added, unwatched, episodes and length,
+  with a button for ascending or descending. Series rows now show their year
+  and content rating.
+
 ## [2.5.0] - 2026-10-08
 
 ### Changed
